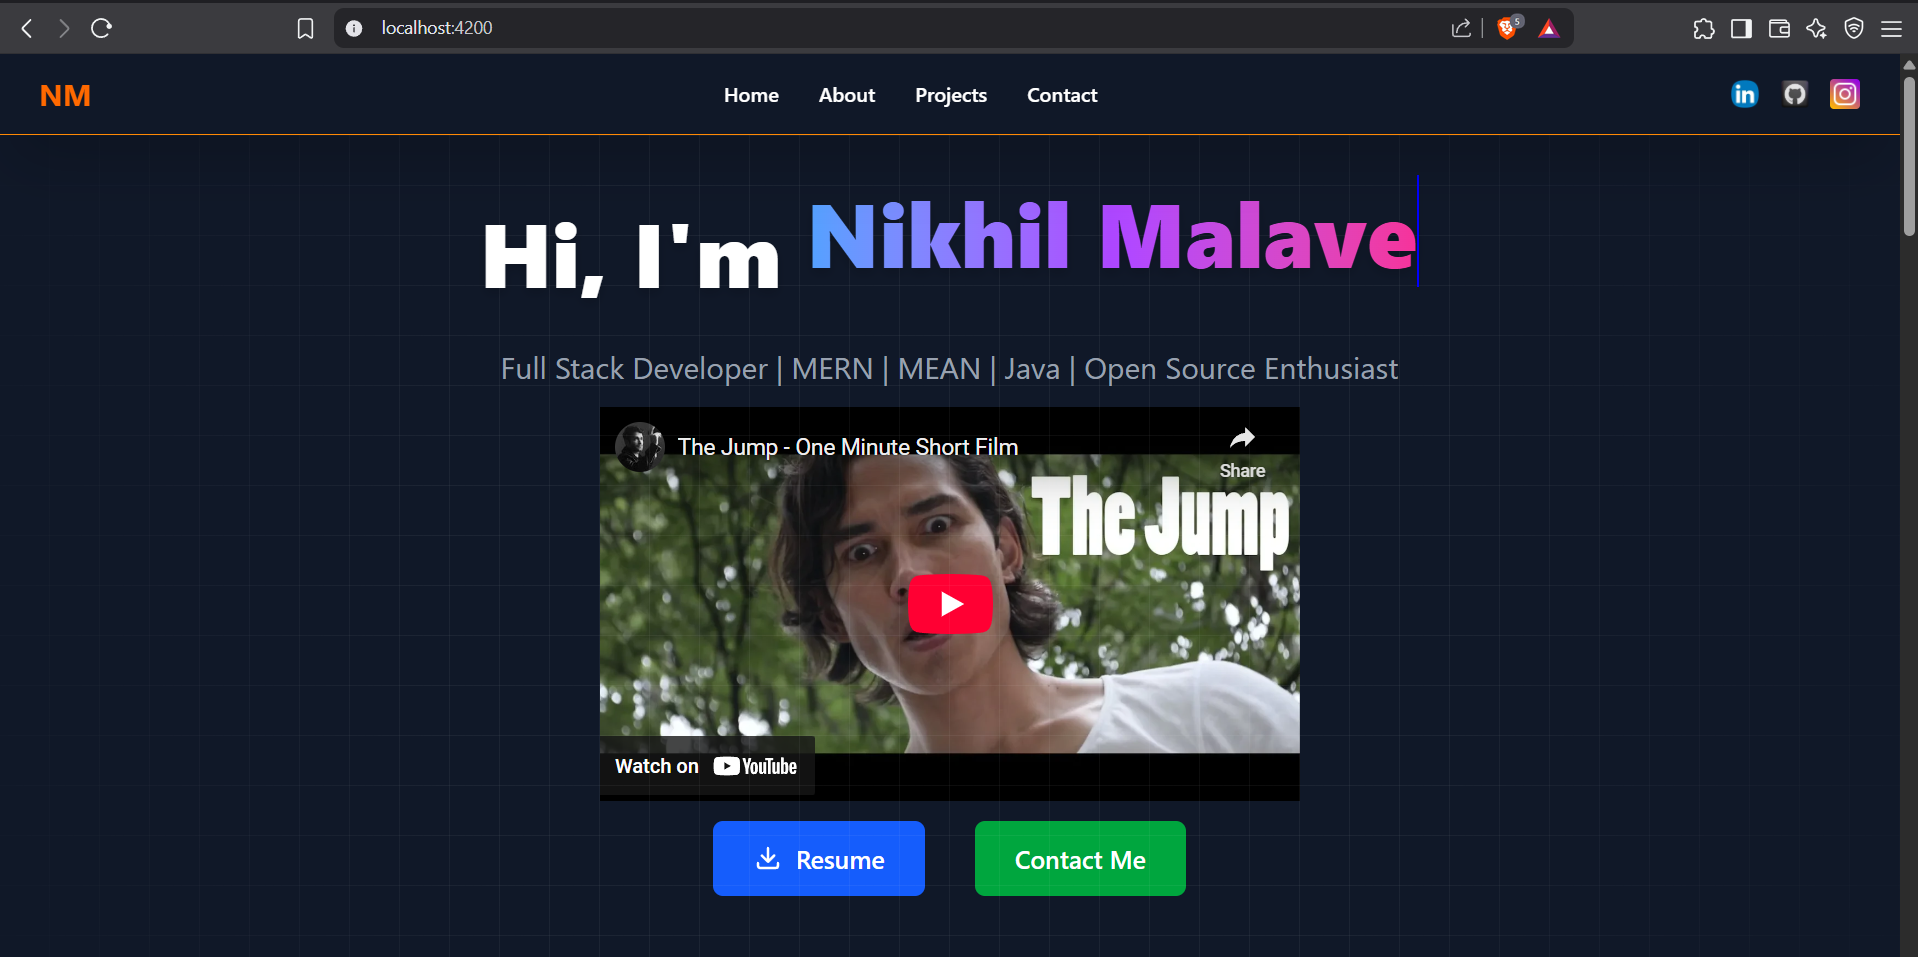
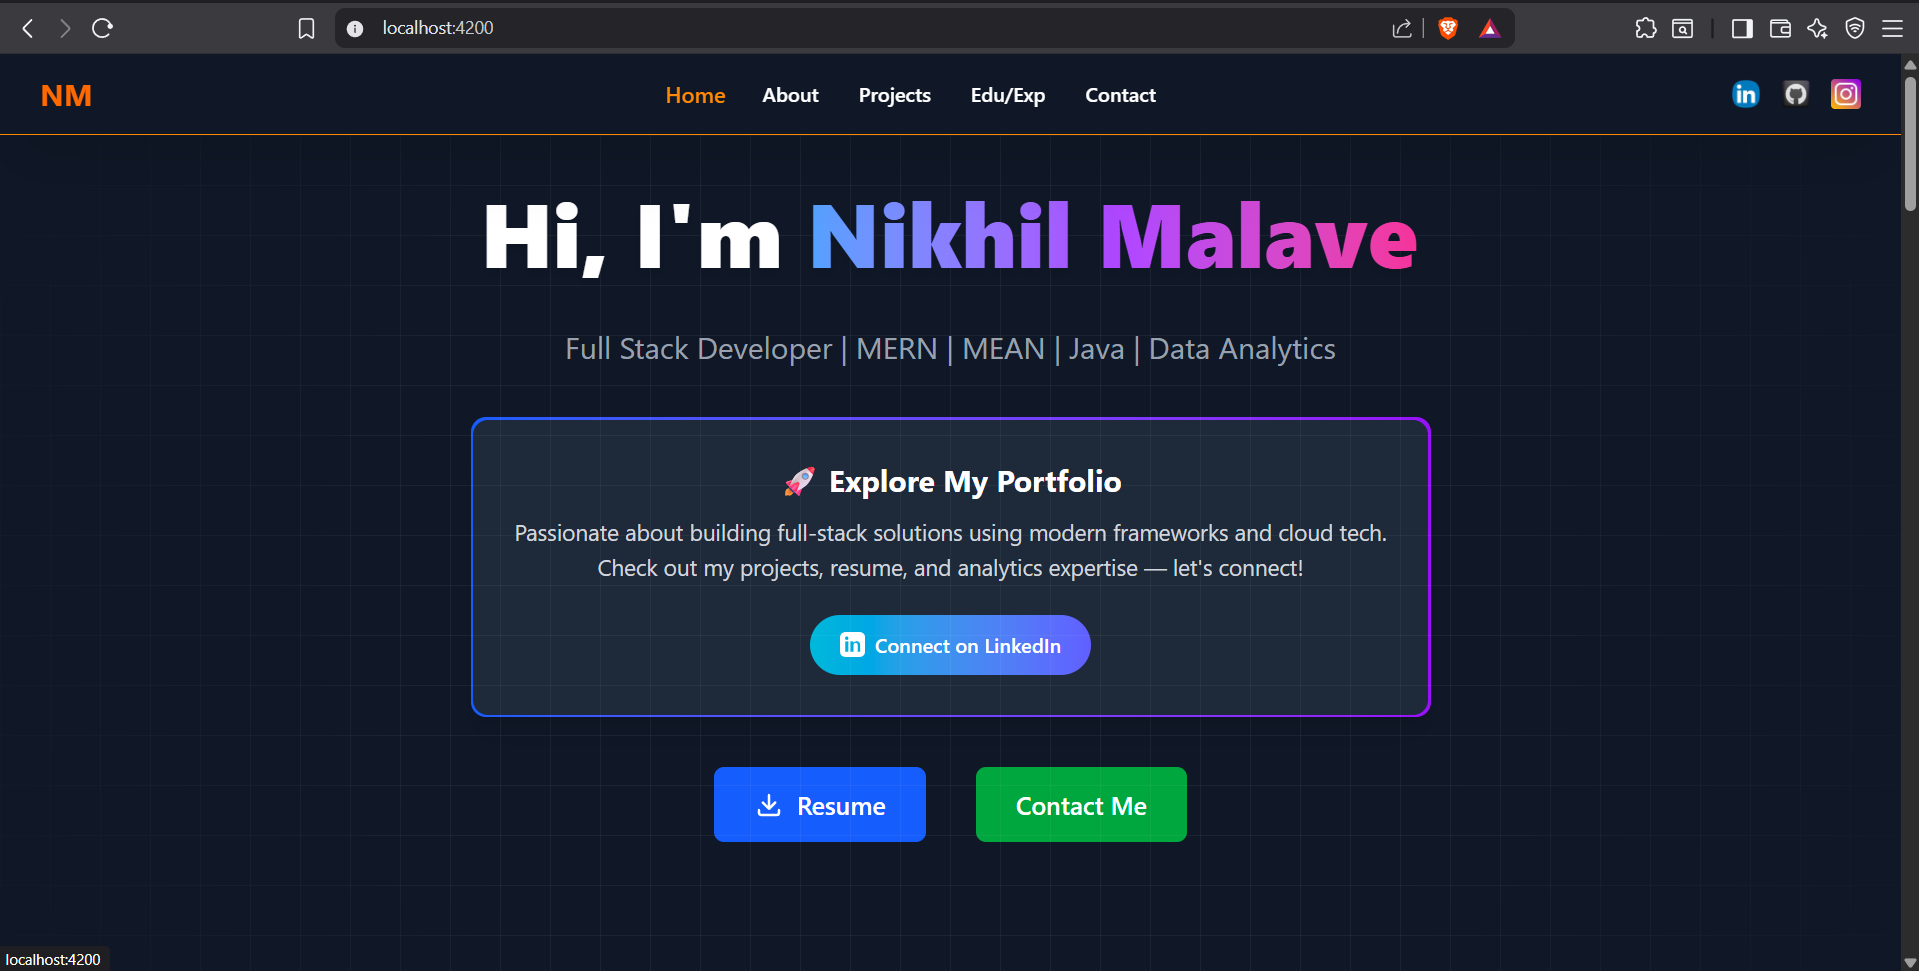
home page edited

diff --git a/src/app/components/home/home.component.html b/src/app/components/home/home.component.html
@@ -19,22 +19,41 @@
       </p>
     </div>
 
-    <!-- YouTube Video -->
-    <div class="flex justify-center m-4">
-      <iframe
-        width="560"
-        height="315"
-        src="https://www.youtube.com/embed/CQXGMwLwGSE?si=r7IU2NzECKKMpwcE"
-        title="YouTube video player"
-        frameborder="0"
-        allow="accelerometer; autoplay; clipboard-write; encrypted-media; gyroscope; picture-in-picture; web-share"
-        referrerpolicy="strict-origin-when-cross-origin"
-        allowfullscreen
-      ></iframe>
+    <!-- 🔄 New Info Card with LinkedIn -->
+    <div class="flex justify-center mt-10 px-4">
+      <div class="bg-gradient-to-r from-blue-600 to-purple-600 p-[2px] rounded-xl shadow-xl w-full max-w-3xl">
+        <div class="bg-gray-800 rounded-xl p-6 md:p-8 text-center">
+          <h3 class="text-2xl font-bold mb-3">🚀 Explore My Portfolio</h3>
+          <p class="text-gray-300 text-lg mb-6">
+            Passionate about building full-stack solutions using modern frameworks and cloud tech.
+            Check out my projects, resume, and analytics expertise — let's connect!
+          </p>
+          <div class="flex justify-center">
+            <a
+  href="https://www.linkedin.com/in/nikhil-malave-02200b25a/"
+  target="_blank"
+  class="flex items-center gap-2 bg-gradient-to-r from-cyan-500 to-indigo-500 hover:from-cyan-600 hover:to-indigo-600 text-white px-6 py-3 rounded-full font-semibold transition text-base"
+>
+  <svg
+    xmlns="http://www.w3.org/2000/svg"
+    class="w-5 h-5"
+    viewBox="0 0 24 24"
+    fill="currentColor"
+  >
+    <path
+      d="M19 0h-14c-2.761 0-5 2.239-5 5v14c0 2.761 2.239 5 5 5h14c2.762 0 5-2.239 5-5v-14c0-2.761-2.238-5-5-5zm-11 19h-3v-10h3v10zm-1.5-11.268c-.966 0-1.75-.79-1.75-1.764s.784-1.764 1.75-1.764 1.75.79 1.75 1.764-.784 1.764-1.75 1.764zm13.5 11.268h-3v-5.604c0-1.337-.025-3.059-1.865-3.059-1.867 0-2.154 1.46-2.154 2.963v5.7h-3v-10h2.881v1.367h.041c.401-.761 1.379-1.562 2.838-1.562 3.033 0 3.593 1.997 3.593 4.593v5.602z"
+    />
+  </svg>
+  Connect on LinkedIn
+</a>
+
+          </div>
+        </div>
+      </div>
     </div>
 
     <!-- Buttons -->
-    <div class="flex justify-center gap-10">
+    <div class="flex justify-center gap-10 mt-10">
       <!-- Resume Button -->
       <button
         onclick="document.getElementById('resumeModal').classList.remove('hidden')"
@@ -69,55 +88,74 @@
   <!-- Resume Modal -->
   <div
     id="resumeModal"
-    class="hidden fixed inset-0 z-50 backdrop-blur-sm  flex items-center justify-center"
+    class="hidden fixed inset-0 z-50 backdrop-blur-sm flex items-center justify-center"
   >
     <!-- Modal Content -->
     <div
-  class="bg-gray-900 text-white p-8 rounded-xl shadow-2xl w-[90%] max-w-xl border border-gray-700 min-h-[250px] flex flex-col justify-between"
->
-  <h2 class="text-3xl font-bold mb-6 text-center text-white">Choose Resume</h2>
-
-  <!-- Side-by-side buttons with icons -->
-  <div class="flex flex-col md:flex-row gap-4 justify-center items-center">
-    <a
-      href="https://drive.google.com/file/d/1kzm8YoH2y5ROIIfnCtoyl6emSs7SoZQS/view?usp=drive_link"
-      target="_blank"
-      class="w-full md:w-1/2 bg-gradient-to-r from-blue-500 to-purple-600 hover:from-blue-600 hover:to-purple-700 text-white font-semibold px-6 py-3 rounded-lg text-center transition flex items-center justify-center gap-2"
+      class="bg-gray-900 text-white p-8 rounded-xl shadow-2xl w-[90%] max-w-xl border border-gray-700 min-h-[250px] flex flex-col justify-between"
     >
-      <!-- Dev icon -->
-      <svg xmlns="http://www.w3.org/2000/svg" class="h-6 w-6" fill="none"
-        viewBox="0 0 24 24" stroke="currentColor" stroke-width="2">
-        <path stroke-linecap="round" stroke-linejoin="round"
-          d="M16 18l6-6-6-6M8 6l-6 6 6 6" />
-      </svg>
-      Developer Resume
-    </a>
+      <h2 class="text-3xl font-bold mb-6 text-center text-white">
+        Choose Resume
+      </h2>
 
-    <a
-      href="https://drive.google.com/file/d/17qF64shdzdqS8H3iThs25jYx2F3zreUA/view?usp=drive_link"
-      target="_blank"
-      class="w-full md:w-1/2 bg-gradient-to-r from-pink-500 to-red-500 hover:from-pink-600 hover:to-red-600 text-white font-semibold px-6 py-3 rounded-lg text-center transition flex items-center justify-center gap-2"
-    >
-      <!-- Analyst icon -->
-      <svg xmlns="http://www.w3.org/2000/svg" class="h-6 w-6" fill="none"
-        viewBox="0 0 24 24" stroke="currentColor" stroke-width="2">
-        <path stroke-linecap="round" stroke-linejoin="round"
-          d="M11 11V5h2v6h3l-4 4-4-4h3zM5 13h14v6H5v-6z" />
-      </svg>
-      Analyst Resume
-    </a>
-  </div>
+      <!-- Side-by-side buttons with icons -->
+      <div class="flex flex-col md:flex-row gap-4 justify-center items-center">
+        <a
+          href="https://drive.google.com/file/d/1kzm8YoH2y5ROIIfnCtoyl6emSs7SoZQS/view?usp=drive_link"
+          target="_blank"
+          class="w-full md:w-1/2 bg-gradient-to-r from-blue-500 to-purple-600 hover:from-blue-600 hover:to-purple-700 text-white font-semibold px-6 py-3 rounded-lg text-center transition flex items-center justify-center gap-2"
+        >
+          <!-- Dev icon -->
+          <svg
+            xmlns="http://www.w3.org/2000/svg"
+            class="h-6 w-6"
+            fill="none"
+            viewBox="0 0 24 24"
+            stroke="currentColor"
+            stroke-width="2"
+          >
+            <path
+              stroke-linecap="round"
+              stroke-linejoin="round"
+              d="M16 18l6-6-6-6M8 6l-6 6 6 6"
+            />
+          </svg>
+          Developer Resume
+        </a>
 
-  <!-- Close Button -->
-  <div class="text-center mt-6">
-    <button
-      onclick="document.getElementById('resumeModal').classList.add('hidden')"
-      class="text-sm text-gray-400 hover:text-red-400 transition underline"
-    >
-      Close
-    </button>
-  </div>
-</div>
+        <a
+          href="https://drive.google.com/file/d/17qF64shdzdqS8H3iThs25jYx2F3zreUA/view?usp=drive_link"
+          target="_blank"
+          class="w-full md:w-1/2 bg-gradient-to-r from-pink-500 to-red-500 hover:from-pink-600 hover:to-red-600 text-white font-semibold px-6 py-3 rounded-lg text-center transition flex items-center justify-center gap-2"
+        >
+          <!-- Analyst icon -->
+          <svg
+            xmlns="http://www.w3.org/2000/svg"
+            class="h-6 w-6"
+            fill="none"
+            viewBox="0 0 24 24"
+            stroke="currentColor"
+            stroke-width="2"
+          >
+            <path
+              stroke-linecap="round"
+              stroke-linejoin="round"
+              d="M11 11V5h2v6h3l-4 4-4-4h3zM5 13h14v6H5v-6z"
+            />
+          </svg>
+          Analyst Resume
+        </a>
+      </div>
 
+      <!-- Close Button -->
+      <div class="text-center mt-6">
+        <button
+          onclick="document.getElementById('resumeModal').classList.add('hidden')"
+          class="text-sm text-gray-400 hover:text-red-400 transition underline"
+        >
+          Close
+        </button>
+      </div>
+    </div>
   </div>
 </main>

diff --git a/src/app/components/projects/projects.component.html b/src/app/components/projects/projects.component.html
@@ -129,7 +129,7 @@
       <div class="p-5 flex flex-col justify-between flex-grow">
         <h3 class="text-xl font-semibold mb-2 group-hover:text-orange-400 transition">Manage Employee App</h3>
         <p class="text-gray-300 mb-3 text-sm">Create,Delete,Update Entry on MongoDB Database</p>
-        <div class="text-xs text-gray-400 mb-3"><strong class="text-gray-200">Tech Stack:</strong> MEAN</div>
+        <div class="text-xs text-gray-400 mb-3"><strong class="text-gray-200">Tech Stack:</strong> MERN</div>
         <div class="mt-auto text-right"><a href="#" target="_blank" class="text-orange-400 hover:text-orange-500 text-sm font-medium">GitHub →</a></div>
       </div>
     </div>
